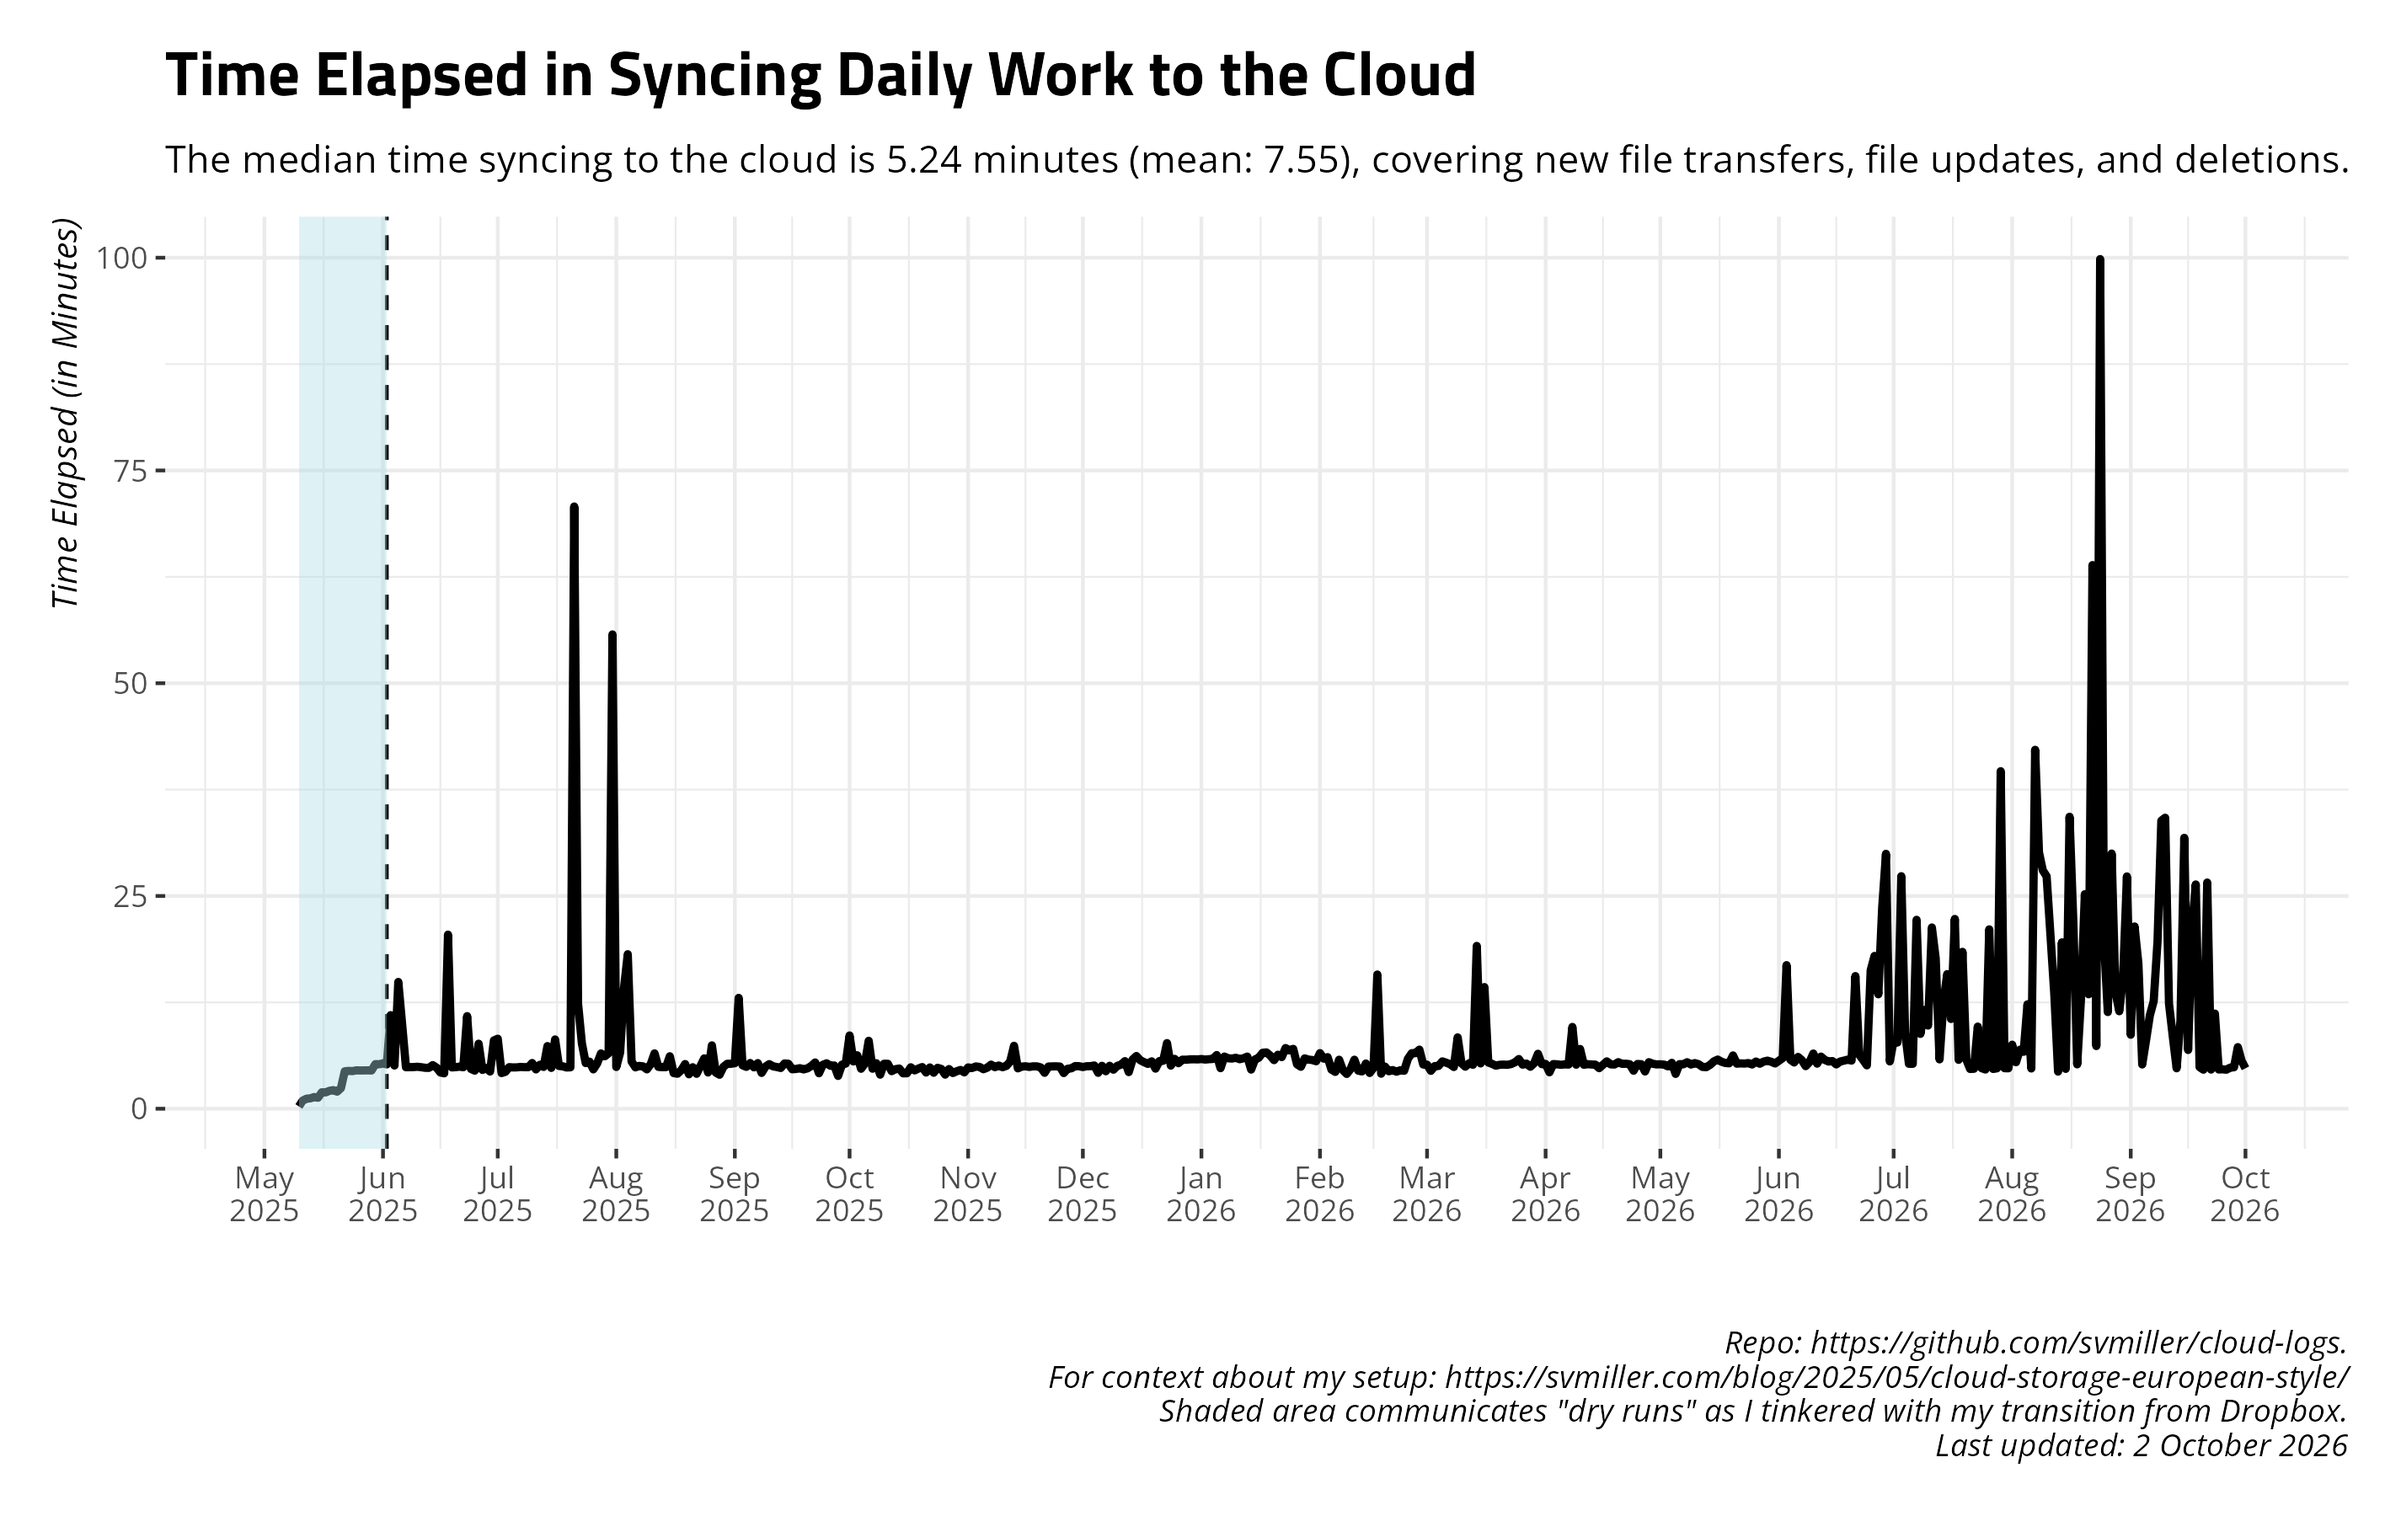
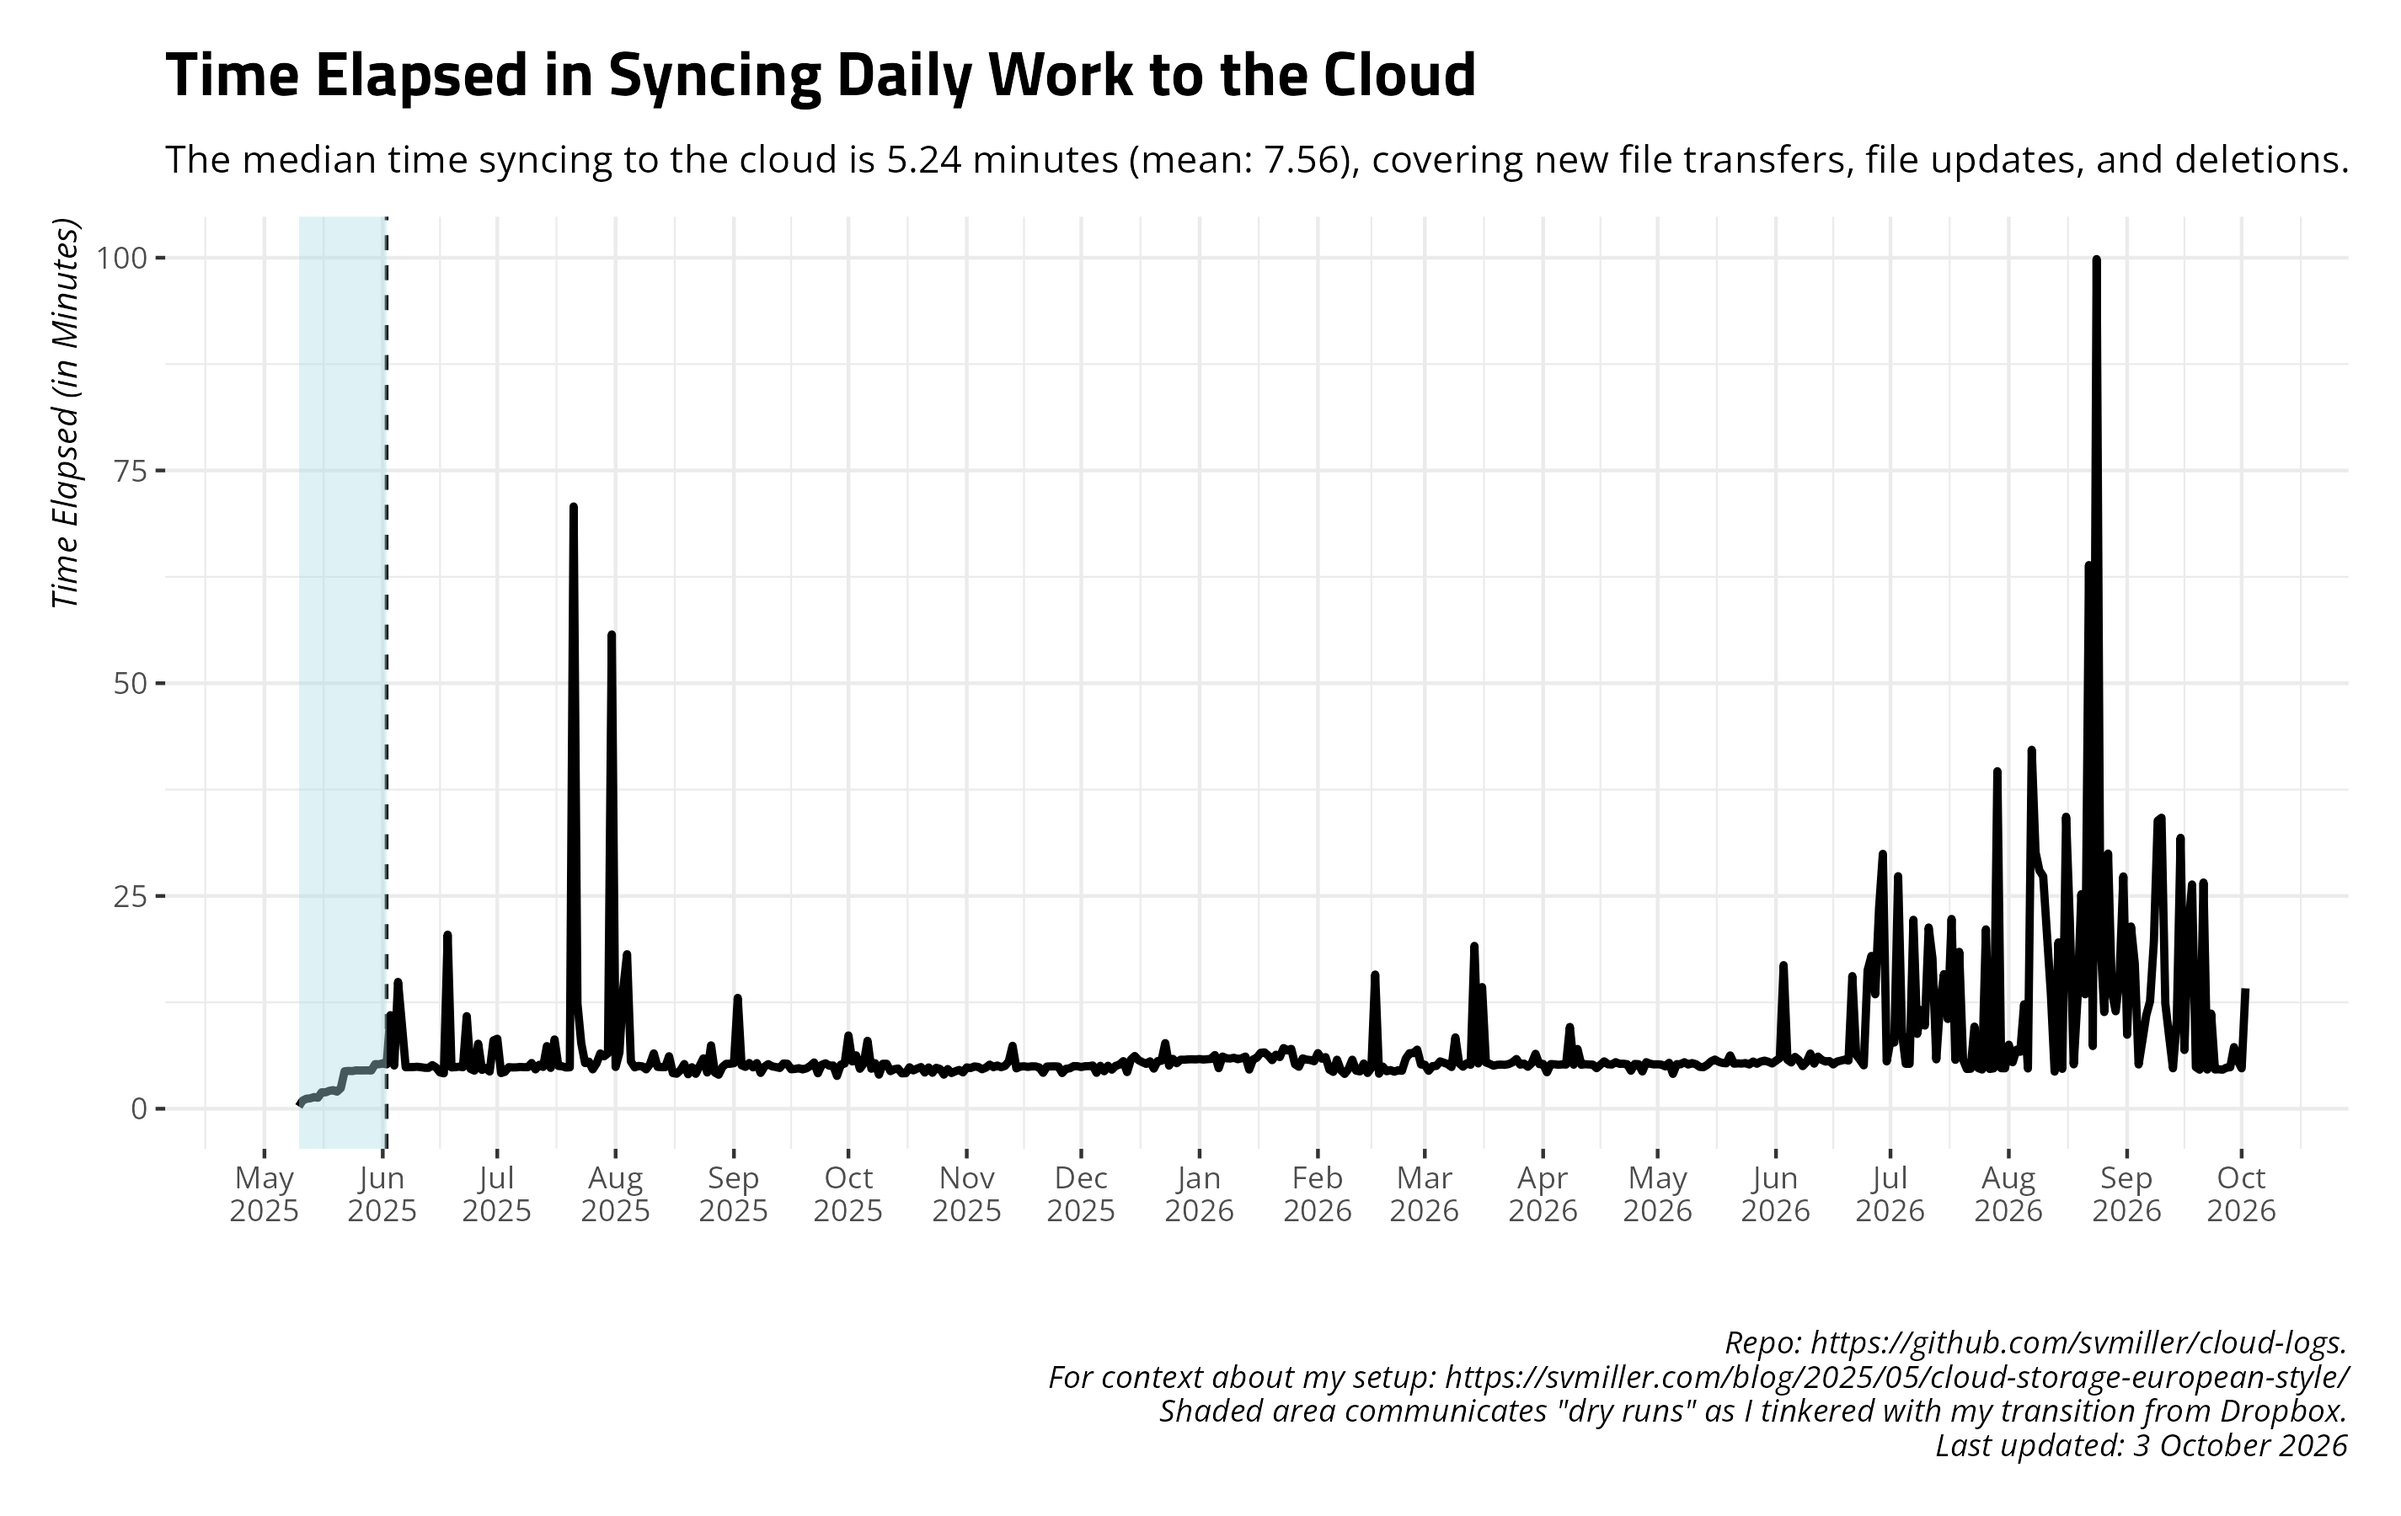
Date: 2026-10-03 09:00:40. Hi mom!

diff --git a/README.md b/README.md
@@ -27,17 +27,17 @@ and uploads to Github.
     #> # A tibble: 14 × 4
     #>    date       ftransfer stransfer   elapsed 
     #>    <date>         <dbl> <chr>       <chr>   
-    #>  1 2026-09-18         9 8.488 KiB   26m21.2s
-    #>  2 2026-09-19        40 3.669 MiB   4m53.6s 
-    #>  3 2026-09-20         3 3.192 KiB   4m35.2s 
-    #>  4 2026-09-21        17 2.403 MiB   26m34.9s
-    #>  5 2026-09-22        46 2.190 MiB   4m36.1s 
-    #>  6 2026-09-23        63 398.606 MiB 11m10.7s
-    #>  7 2026-09-24        13 38.466 MiB  4m36.8s 
-    #>  8 2026-09-25         4 5.267 MiB   4m38.0s 
-    #>  9 2026-09-26         0 <NA>        4m35.3s 
-    #> 10 2026-09-27         0 <NA>        4m49.5s 
-    #> 11 2026-09-28        22 176.927 KiB 4m52.5s 
-    #> 12 2026-09-29        11 2.087 MiB   7m14.5s 
-    #> 13 2026-09-30         7 1.422 GiB   5m36.9s 
-    #> 14 2026-10-01        34 8.149 MiB   4m45.0s
+    #>  1 2026-09-19        40 3.669 MiB   4m53.6s 
+    #>  2 2026-09-20         3 3.192 KiB   4m35.2s 
+    #>  3 2026-09-21        17 2.403 MiB   26m34.9s
+    #>  4 2026-09-22        46 2.190 MiB   4m36.1s 
+    #>  5 2026-09-23        63 398.606 MiB 11m10.7s
+    #>  6 2026-09-24        13 38.466 MiB  4m36.8s 
+    #>  7 2026-09-25         4 5.267 MiB   4m38.0s 
+    #>  8 2026-09-26         0 <NA>        4m35.3s 
+    #>  9 2026-09-27         0 <NA>        4m49.5s 
+    #> 10 2026-09-28        22 176.927 KiB 4m52.5s 
+    #> 11 2026-09-29        11 2.087 MiB   7m14.5s 
+    #> 12 2026-09-30         7 1.422 GiB   5m36.9s 
+    #> 13 2026-10-01        34 8.149 MiB   4m45.0s 
+    #> 14 2026-10-02        29 8.205 MiB   14m8.7s
